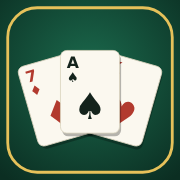
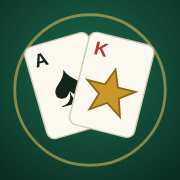
Identidade Jogos da Família: nome, ícones, manifesto
Claude-Session: https://claude.ai/code/session_01DgmePe1xhng3XTRokBcmMH

diff --git a/index.html b/index.html
@@ -3,19 +3,19 @@
 <head>
 <meta charset="UTF-8">
 <meta name="viewport" content="width=device-width, initial-scale=1.0, viewport-fit=cover">
-<title>Buraco da Família</title>
-<meta name="description" content="Buraco online para jogar em família.">
+<title>Jogos da Família</title>
+<meta name="description" content="Jogos de cartas online para jogar em família.">
 <meta name="theme-color" content="#0f3d2e">
-<meta property="og:title" content="Buraco da Família">
-<meta property="og:description" content="Buraco online para jogar em dupla com a família.">
+<meta property="og:title" content="Jogos da Família">
+<meta property="og:description" content="Jogos de cartas online para jogar com a família.">
 <meta property="og:type" content="website">
 <meta property="og:url" content="https://tarcisiogb.github.io/buraco/">
 <meta property="og:image" content="https://tarcisiogb.github.io/buraco/og-image.png">
 <meta property="og:image:width" content="1200">
 <meta property="og:image:height" content="630">
 <meta name="twitter:card" content="summary_large_image">
-<meta name="twitter:title" content="Buraco da Família">
-<meta name="twitter:description" content="Buraco online para jogar em dupla com a família.">
+<meta name="twitter:title" content="Jogos da Família">
+<meta name="twitter:description" content="Jogos de cartas online para jogar com a família.">
 <meta name="twitter:image" content="https://tarcisiogb.github.io/buraco/og-image.png">
 <link rel="icon" type="image/png" sizes="32x32" href="favicon-32.png">
 <link rel="apple-touch-icon" sizes="180x180" href="apple-touch-icon.png">
@@ -315,7 +315,7 @@ body.ingame{overflow:hidden;position:fixed;inset:0;width:100%}
 <script src="buraco-bot.js"></script>
 <script>
 "use strict";
-var BUILD = "2026-11-07t";
+var BUILD = "2026-11-07u";
 
 var firebaseConfig = {
   apiKey: "AIzaSyB0UPpjvgSTIlT4csgUTBoi_ZK5pWG8aEU",
@@ -454,14 +454,14 @@ function render(){
   else if(S.me.status === "pendente") h = viewPending();
   else if(S.me.status === "recusado") h = viewRefused();
   else h = viewApp();
-  app.innerHTML = h + (S.modal ? modalHtml() : "") + (S._inGame ? "" : '<div class="build">Buraco da Família · build '+BUILD+'</div>');
+  app.innerHTML = h + (S.modal ? modalHtml() : "") + (S._inGame ? "" : '<div class="build">Jogos da Família · build '+BUILD+'</div>');
   document.body.classList.toggle("ingame", !!S._inGame);
   if(S._inGame){ layoutFans(); fitMelds(); runAnims(); }
   if(S._inGame && S.game !== botSeen){ botSeen = S.game; botDrive(); }
 }
 function viewLoading(){ return '<div class="loading"><div><div class="spin"></div><p style="margin-top:12px">Carregando…</p></div></div>'; }
 function viewOffline(){ return '<div class="wrap auth">'+brand()+'<div class="msg err">Não consegui carregar o Firebase. Verifique sua conexão e recarregue a página.</div><button class="btn" data-action="reload">Recarregar</button></div>'; }
-function brand(){ return '<div class="brand"><div class="logo">♠</div><h1>Buraco da Família</h1><p>Jogue em dupla com quem você ama</p></div>'; }
+function brand(){ return '<div class="brand"><div class="logo">♠</div><h1>Jogos da Família</h1><p>Jogue com quem você ama</p></div>'; }
 
 function viewAuth(){
   var f = S.form || {}, h = ['<div class="wrap auth">', brand(), '<div class="panel">'];

diff --git a/README.md b/README.md
@@ -1,4 +1,4 @@
-# Buraco da Família
+# Jogos da Família
 
 Buraco Aberto online (4 jogadores, 2 duplas) para jogar em família.
 
